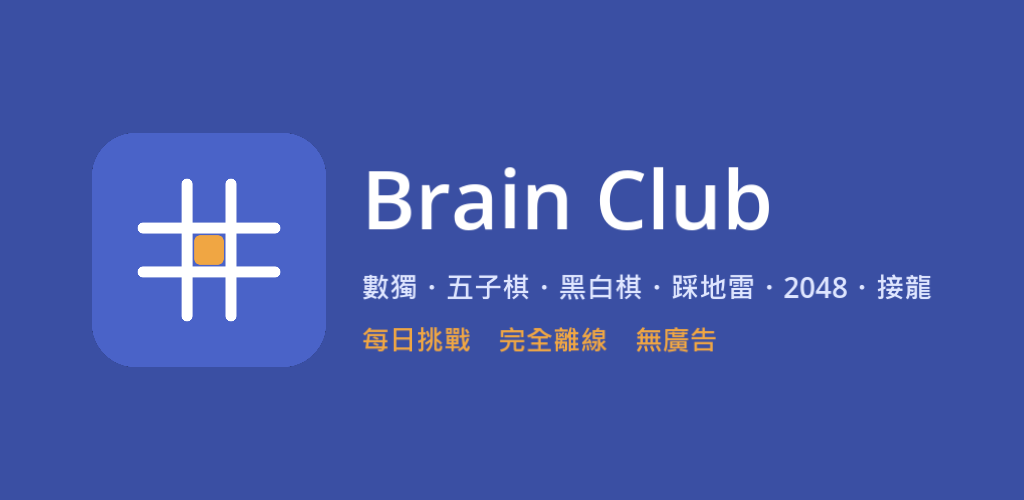
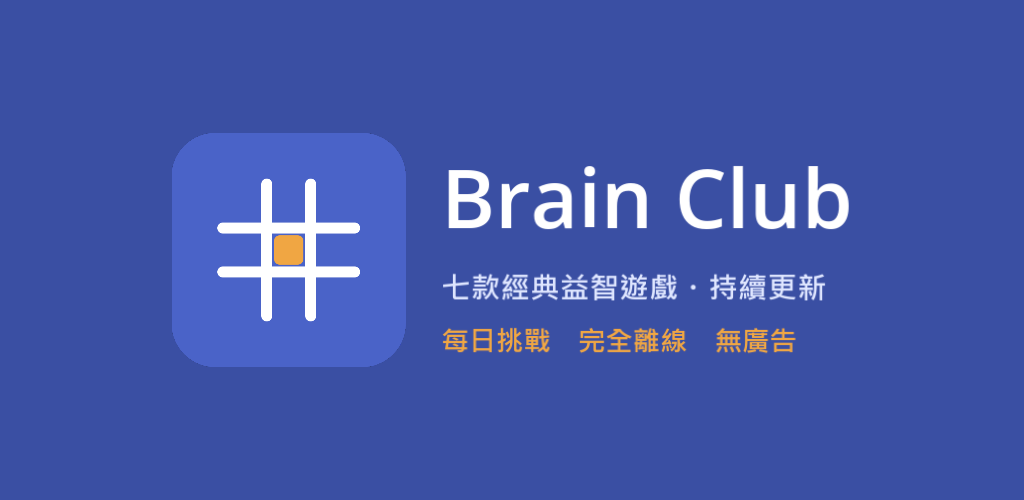
chore: 重新產生 v0.9 商店截圖與文案，修正截圖轉場疊影問題
- tools/store_shots.gd：專用乾淨截圖流程，不觸發成就通知、每次切換
  畫面後等轉場動畫穩定再拍，修正之前截圖常拍到新舊畫面疊在一起的問題
- 同樣的轉場等待修正也套用到 tests/autotest.gd 的 _shot()
- 重新產生七款遊戲 + 首頁 + 成就頁共 9 張 720×1280 截圖
- 主題圖文字改generic「七款經典益智遊戲」，未來加遊戲不用再改圖
- docs/08：更新為 v0.9 商店文案、7 款遊戲說明、推出正式版的具體步驟
  （封測是帳號層級一次性門檻，建議直接推出修過 bug 的 v0.9，不用封測時的舊版）

Changed region(s): [[0.0625, 0.24, 0.8438, 0.75], [0.4375, 0.54, 0.9062, 0.6]]

diff --git a/docs/08_Play_Release_Guide.md b/docs/08_Play_Release_Guide.md
@@ -1,6 +1,6 @@
 # 08 Google Play 上架指南
 
-*更新：2026-07-12。帳號驗證通過後照本文件由上而下操作即可。*
+*更新：2026-08-20（v0.9）。封閉測試已通過，本次更新聚焦「推出正式版」。*
 
 ## 一、素材（已備妥，在 `store_assets/`）
 
@@ -8,40 +8,47 @@
 | --- | --- | --- |
 | 商店圖示 | `icon_512.png` | 512×512 PNG |
 | 主題圖 | `feature_graphic_1024x500.png` | 1024×500 |
-| 手機截圖 | `home.png`、六款遊戲各一張、`settings.png` | 至少 2 張、最多 8 張（已有 720×1280） |
-| 隱私權政策 | `privacy_policy.html` | 需要公開網址（見下） |
+| 手機截圖 | `01_home.png` ~ `09_achievements.png`（共 9 張） | 至少 2 張、最多 8 張——上傳時任選其中 8 張即可，建議拿掉 `09_achievements.png`（成就頁是加分項，遊戲畫面優先） |
+| 隱私權政策 | `privacy_policy.html` | 需要公開網址（已上線，見下） |
 
-素材重新產生方式：`tools/gen_icons.gd`（圖示）、`BRAINCLUB_BANNER` 環境變數（主題圖）、autotest + `BRAINCLUB_SHOT`（截圖）。
+素材重新產生方式：
+- 圖示：`Godot執行檔 --headless --path . --script res://tools/gen_icons.gd`
+- 主題圖：`BRAINCLUB_BANNER=輸出路徑` 環境變數 + 一般模式執行（解析度 1024×500）
+- 截圖：`BRAINCLUB_STORE_SHOTS=1` + `BRAINCLUB_SAVE=user://save_store.json`（獨立存檔，不動真實進度）+ `BRAINCLUB_SHOT=輸出資料夾`，一般模式執行（解析度 720×1280）。這是專用的乾淨截圖流程（`tools/store_shots.gd`），不會像跑完整測試那樣把成就通知疊在畫面上，每次切換畫面也會等轉場動畫跑完再拍，不會拍到兩個畫面疊在一起。
 
 ## 二、隱私權政策上線（擇一）
 
-1. **GitHub Pages（推薦）**：把專案推上 GitHub → Settings → Pages 開啟 → 網址形如 `https://帳號.github.io/BrainTraining/store_assets/privacy_policy.html`。順便獲得程式碼雲端備份。
-2. **Google Sites**：新建網站，把 privacy_policy.html 內容貼上，發布取得網址。
+1. **GitHub Pages（已採用）**：`https://bny0829.github.io/BrainTraining/store_assets/privacy_policy.html`
+2. Google Sites：新建網站貼上內容，發布取得網址。
 
-## 三、商店文案（可直接複製）
+## 三、商店文案（可直接複製，v0.9 版本）
 
 **App 名稱（30 字內）**：`Brain Club：益智遊戲合集`
 
 **簡短說明（80 字內）**：
-`數獨、五子棋、黑白棋、踩地雷、2048、接龍，六款經典益智遊戲。每日挑戰，完全離線、無廣告。`
+`數獨、五子棋、黑白棋、踩地雷、2048、接龍、新接龍，七款經典益智遊戲。每日挑戰，完全離線、無廣告。`
 
 **完整說明**：
 ```
-Brain Club 是一款經典益智遊戲合集，一次安裝、六款遊戲，全部離線可玩、完全免費、沒有廣告。
+Brain Club 是一款經典益智遊戲合集，一次安裝、七款遊戲，全部離線可玩、完全免費、沒有廣告。
 
 【收錄遊戲】
 • 數獨：四種難度、保證唯一解、筆記與提示功能
-• 五子棋：四級 AI 對戰，從初學到專家
-• 黑白棋：四級 AI、合法手提示、殘局精算
+• 五子棋：四級 AI 對戰，附建議落點提示
+• 黑白棋：四級 AI、合法手提示、建議落點提示
 • 踩地雷：首挖保證安全、長按插旗、和弦快開
 • 2048：滑動合併，挑戰最高分
-• 接龍：點擊自動移動、殘局一鍵收尾
+• 接龍：可選一次翻一張或三張，點擊自動移動、殘局一鍵收尾、提示可用招法
+• 新接龍：全部明牌、幾乎必有解，暫存格清楚標示，提示可用招法
+
+【新手友善】
+每款遊戲都有「怎麼玩」規則說明，第一次玩也能快速上手。
 
 【每日挑戰】
 每天輪替不同遊戲與難度，全球玩家同一天挑戰同一題。累積連續完成天數，和自己比賽。
 
 【成就與戰績】
-16 個成就等你解鎖，各遊戲最佳時間與勝場完整記錄。
+18 個成就等你解鎖，各遊戲最佳時間與勝場完整記錄。
 
 【設計理念】
 • 完全離線：通勤、飛機上都能玩
@@ -51,6 +58,15 @@ Brain Club 是一款經典益智遊戲合集，一次安裝、六款遊戲，全
 
 **分類**：遊戲 > 益智　**標籤**：數獨、棋盤遊戲
 
+**這次版本的更新說明**（Play Console「本次更新內容」欄位可用）：
+```
+• 新增接龍「一次翻三張」模式
+• 五子棋、黑白棋、接龍、新接龍新增提示功能
+• 七款遊戲新增「怎麼玩」規則說明
+• 修正新接龍部分情況下無法搬移的問題
+• 修正英文介面部分文字顯示不完整的問題
+```
+
 ## 四、Play Console 表單答案
 
 **資料安全（Data safety）**——全部照實填「不收集」：
@@ -58,45 +74,45 @@ Brain Club 是一款經典益智遊戲合集，一次安裝、六款遊戲，全
 - 資料是否加密傳輸？ → 不適用（無網路功能）
 - 使用者能否要求刪除資料？ → 不適用
 
+**廣告 ID 聲明**：目前版本沒有整合任何廣告/追蹤 SDK，選 **「否，不使用廣告 ID」**。未來接 AdMob 後這裡要改回「是」，並同步更新隱私權政策與資料安全表。
+
 **內容分級問卷**：益智遊戲、無暴力/賭博/色情/使用者互動 → 會拿到全年齡（3+）。
 
 **廣告**：本 App 不含廣告 → 否。
 
 **目標對象**：13 歲以上（選含兒童會多很多審查要求，先避開）。
 
+以上這些都是 App 層級的設定，**封測時已經填過，正式版不用重填**（除非內容有變動）。
+
 ## 五、匯出 AAB（Play 只收 AAB，不收 APK）
 
-1. Godot 選單：**專案 → 安裝 Android 建置樣板…** → 確認（一次性；會生成 `android/` 資料夾，已加入 .gitignore）。沒做這步匯出視窗會顯示紅字「尚未在專案中安裝 Android 建置樣板」
+1. Godot 選單：**專案 → 安裝 Android 建置樣板…**（一次性；已裝過的話會跳過）
 2. 專案 → 匯出 → Android 預設組：
    - `Gradle 構建 / 使用 Gradle 構建` 打勾
    - `匯出格式` 選 **Export AAB**
    - Export Path 改成 `./BrainClub.aab`
 3. 確認已重啟過 Godot（讀取金鑰環境變數），**不要**勾「以除錯模式匯出」
-4. 按「匯出專案」。**第一次 Gradle 建置需下載相依套件（需網路，約 3～10 分鐘）**，輸出面板會持續顯示進度
+4. 按「匯出專案」
 
-版號規則：每次上傳 Play 的 `version/code` 必須**比前一次上傳大**（目前 7），跳號完全沒關係（1~6 沒上傳過不影響）；`version/name` 對玩家顯示（目前 0.7.0）。封測從 v0.7 開始，測試者直接拿到六款遊戲完整版。
+版號規則：每次上傳 Play 的 `version/code` 必須**比前一次上傳大**（目前 13 / v0.9.0）。
 
-## 六、封閉測試（個人帳號硬性要求）
+## 六、推出正式版（封測已通過，現在的重點）
 
-1. Play Console → 建立應用程式（名稱 Brain Club、遊戲、免費）
-2. 左側「測試 > 封閉測試」→ 建立測試版本 → 上傳 AAB → 填寫版本資訊
-3. 建立測試人員名單：**至少 12 人**（親友的 Gmail 都可以），分享加入連結請他們接受並安裝
-4. 維持 **14 天**不中斷（期間可以更新版本）
-5. 14 天後 Console 會開放「申請正式版」→ 填寫上架審查表單 → 送審（通常數天）
+**重要觀念**：Google 的「封閉測試 12 人×14 天」是**帳號／App 層級的一次性資格門檻**，一旦達成，就能把**任何版本**（不必是封測時那個 build）直接送去正式版軌道，不需要為每個新版重跑 14 天測試。
 
-**現在就可以做的事**：帳號驗證一過，立刻上傳封測並找齊 12 位測試者——14 天的時鐘越早開始越好。期間我們繼續開發 v0.6。
+**建議直接推出目前的 v0.9，不要用封測時測過的舊版**：v0.9 修掉了封測期間發現的真實 bug（新接龍卡死、英文介面版面溢出），首批玩家的評價非常重要，值得多花一次上傳的時間換取更好的第一印象。
 
-### 廣告 ID 聲明
+步驟：
+1. 依第五節匯出 v0.9.0 的 AAB
+2. Play Console → 左側「**正式版**」（Production）→ 建立新版本 → 上傳這個 AAB
+3. 填寫「本次更新內容」（第三節已準備好文案）
+4. 檢查商店資訊分頁的截圖/文案是否需要更新為 v0.9 版本（本次已重新產生）
+5. 送出審查——**首次正式版審查通常比測試軌道久**，可能數小時到數天
+6. 通過後 App 會在 Play 商店公開上架
 
-Play Console 送審前會要求填「廣告 ID 聲明」。**目前版本沒有整合任何廣告/追蹤 SDK，選「否，不使用廣告 ID」。** 未來接 AdMob 後這裡要改回「是」，並同步更新隱私權政策與資料安全表。
+### 讓國外使用者也能安裝（地區設定）
 
-### 讓國外測試者也能安裝（地區設定是關鍵，不是只加信箱）
-
-Play 判斷「這個帳號能不能看到 App」主要依據**測試版本的「國家/地區」可用性設定**，不是測試者住在哪裡。只把信箱加進測試人員名單還不夠：
-
-1. 封測版本頁面 → 左側「**國家/地區**」分頁 → 選「**新增所有國家/地區**」（封測階段人數少，直接全選最省事，避免任何海外朋友卡在「你的地區無法使用」）
-2. 「測試人員」分頁 → 用電子郵件清單或 Google 群組把所有測試者（不分國內外）加入
-3. 地區設定可隨時修改，存檔後數小時內生效，不影響已在跑的 14 天計時
+正式版預設地區跟封測時可能不同，記得到「正式版 → 國家/地區」分頁確認開放範圍（封測時我們選過「所有國家/地區」，正式版要重新確認一次）。
 
 ## 七、金鑰備忘
 
